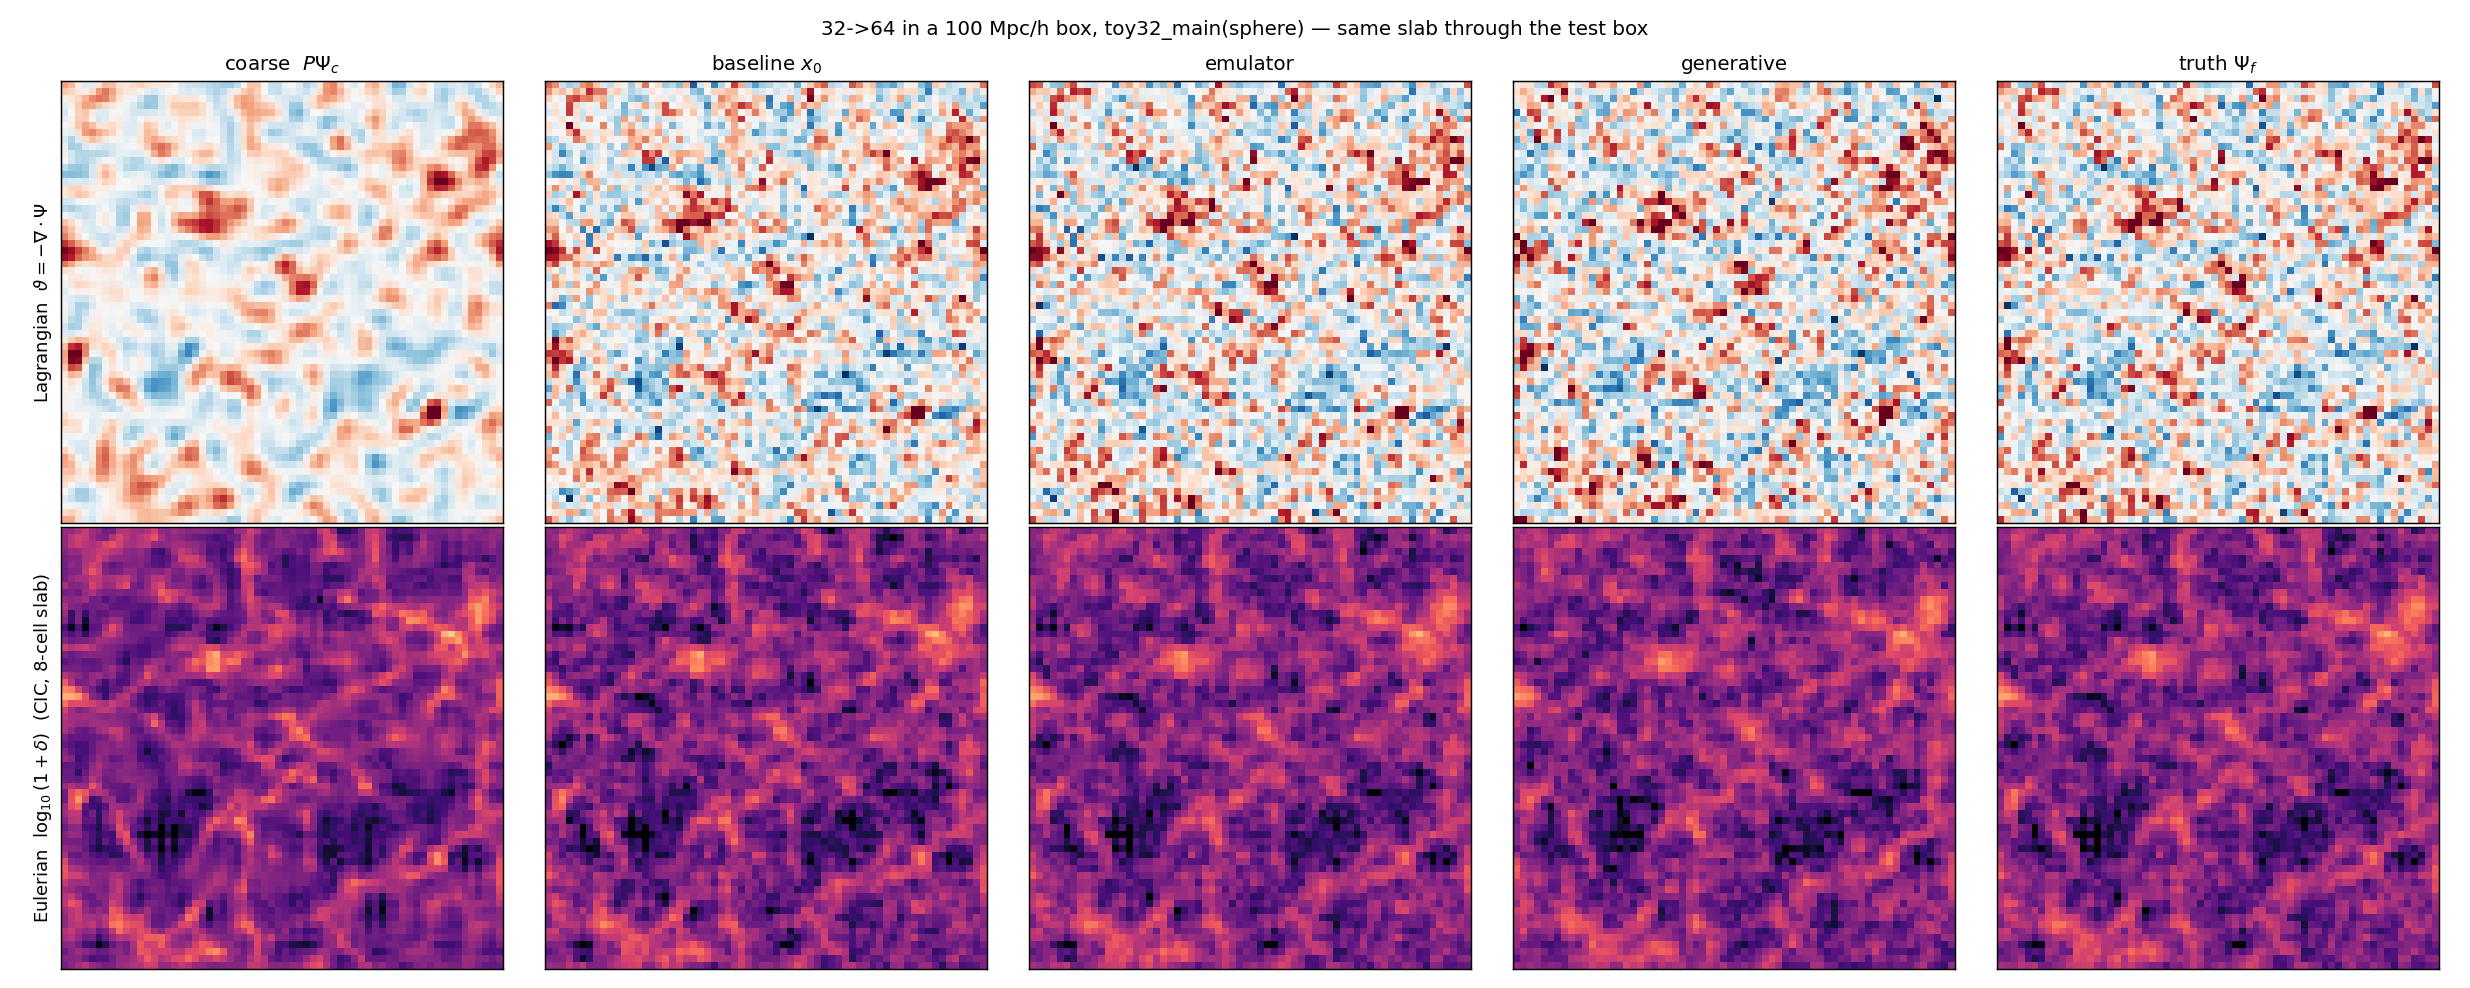
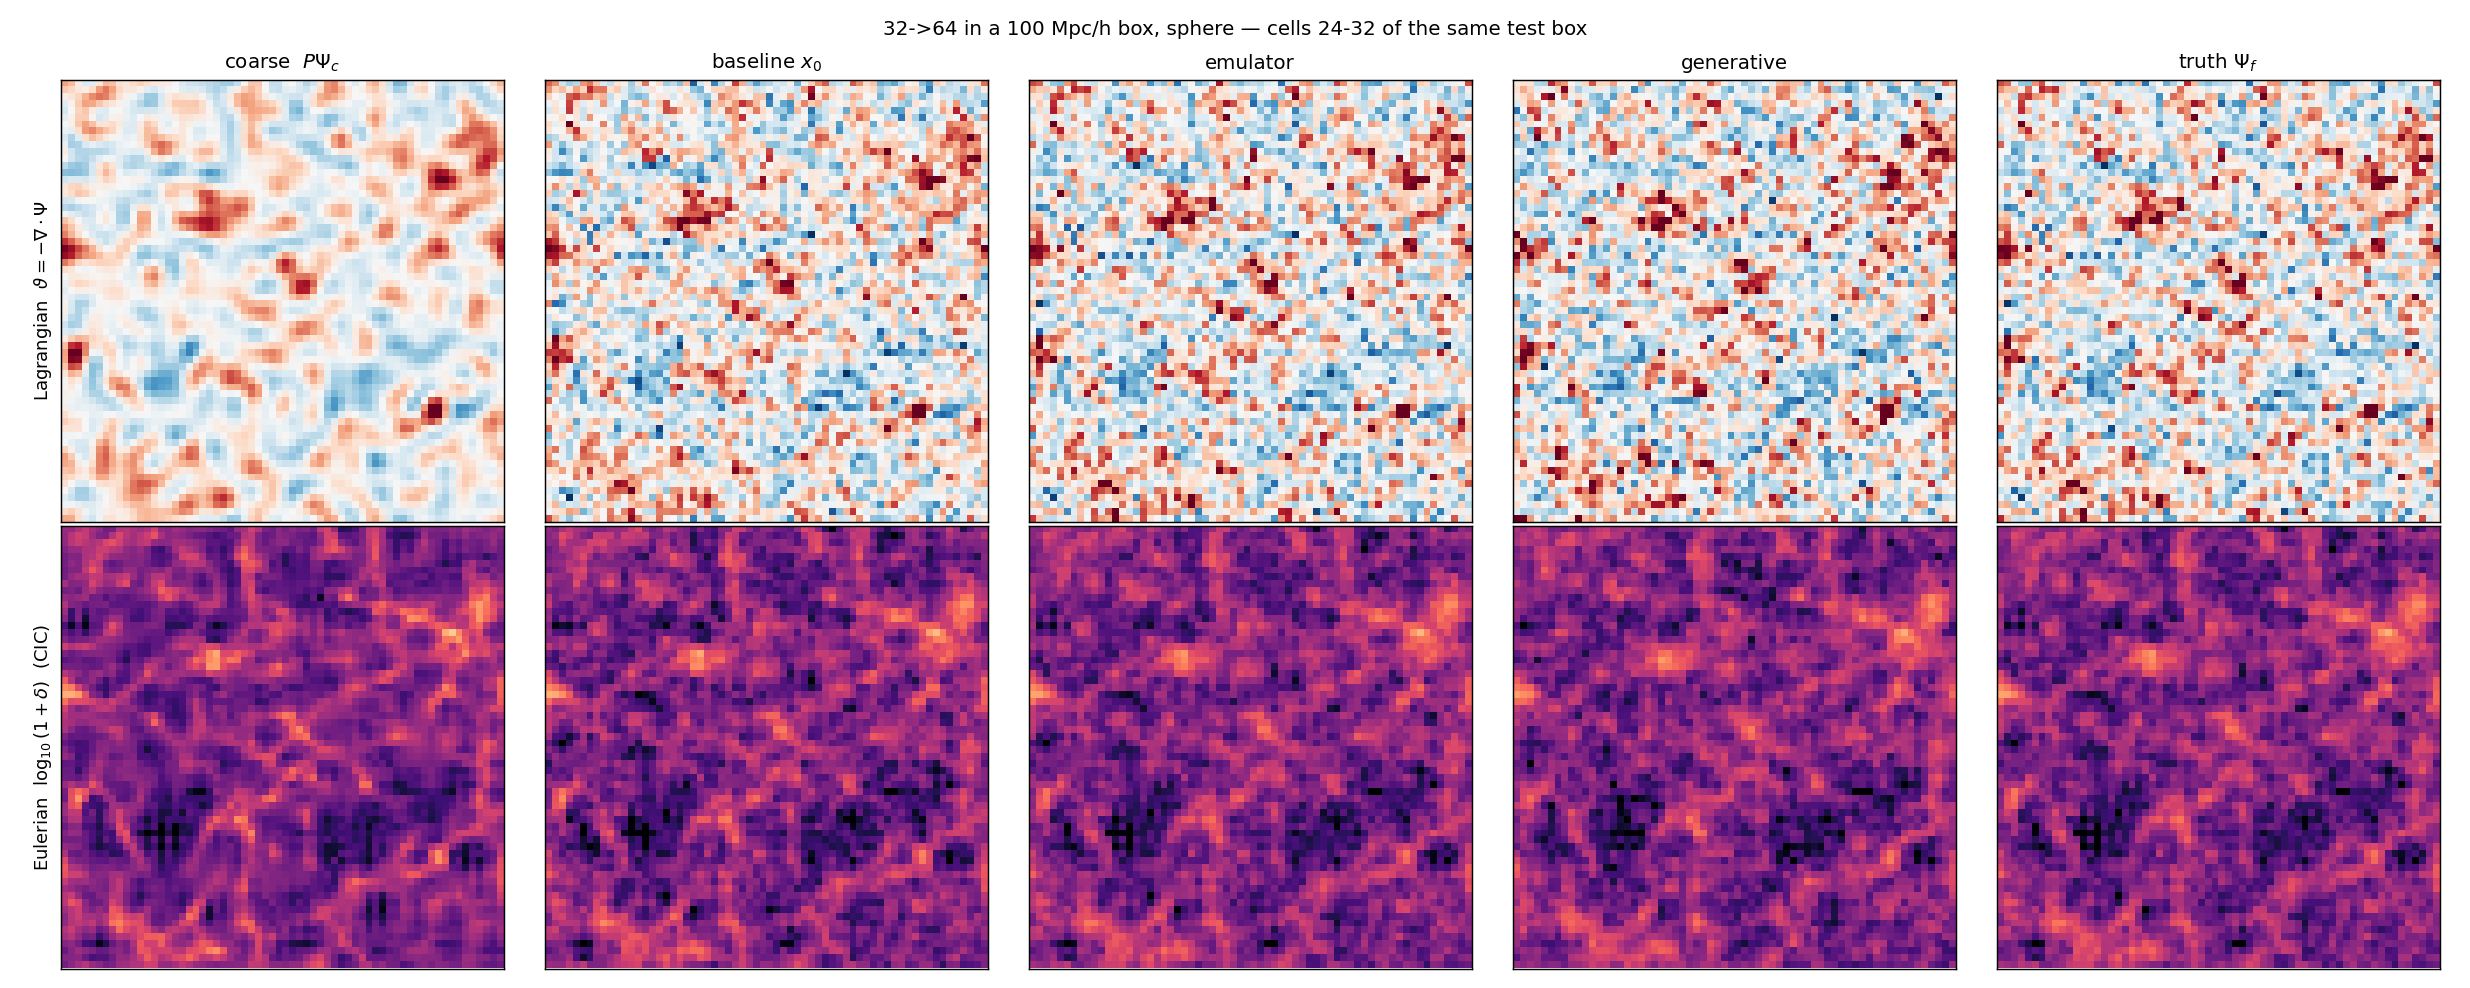
Add runs/make_figures.py; Stage 3b resume + D results in RUNLOG
make_figures.py: full-range spectra of the displacement divergence and
real-space slices (Lagrangian theta and an Eulerian CIC density) for
coarse / baseline / emulator / generative / truth. It only imports the two
main scripts and changes neither; defaults to --device cpu so it can run
while a training job holds the GPU, and the CIC deposit asserts mass
conservation. The Eulerian row is a visualisation only -- quantitative
Eulerian statistics stay on the "deliberately left out" list.

RUNLOG: the D harmonics diagnostic (including the finding that P_harm/P_nl
is exactly constant in rms_delta, contradicting the expectation in
KICKOFF_STAGE3B), the concurrent-MPS-job incident and its single-job
controls, and the Stage 3b resume.

.gitignore: also ignore *.pt anywhere and octave_flow_out/ -- the script's
--out defaults there, so weights could escape the runs/**/*.pt rule.

Claude-Session: https://claude.ai/code/session_01HdzTrrjkUACZWrrCERPT9h

Changed region(s): [[0.0, 0.0, 0.9976, 0.9717], [0.0, 0.3036, 0.0312, 0.3947], [0.0, 0.2126, 0.0312, 0.2429]]

diff --git a/runs/make_figures.py b/runs/make_figures.py
@@ -1,0 +1,176 @@
+#!/usr/bin/env python3
+"""Figures for a trained octave-flow model: full-range spectra and real-space slices.
+
+Complements the per-run `summary.png` that `octave_flow_toy.py` writes (which only shows
+the octave band).  Nothing here is imported by the two main scripts; it only reads a
+checkpoint and re-synthesises the same test box.
+
+  fig_spectra_<tag>.png   P_theta(k) of the displacement divergence theta = -div Psi over
+                          the whole k range for P Psi_c / baseline x0 / emulator /
+                          generative / truth, plus P/P_true and r(k) vs truth.
+  fig_slices_<tag>.png    the same five fields in real space through one slab: the
+                          Lagrangian theta field, and the Eulerian CIC density.
+
+The Eulerian row is a plain CIC deposit of the particles at q + Psi(q); it is only a
+visualisation.  Quantitative Eulerian statistics (the CIC loss, density spectra) are
+deliberately not part of the toy -- see the "deliberately left out" list in README.md.
+
+Runs on the CPU by default so it can be used while a training job has the GPU.
+
+  python runs/make_figures.py --ckpt runs/A_flow_phys/model_ema.pt --window cube --tag cube
+  python runs/make_figures.py --ckpt runs/toy32_main/model_ema.pt --window sphere --tag sphere
+
+Keep --nc/--nf/--rms-delta/--test-seeds/--window the same as the training run, otherwise
+the test box (and the band split) will not be the one the model was trained for.
+"""
+import argparse
+import os
+import sys
+
+import numpy as np
+import torch
+import matplotlib
+matplotlib.use("Agg")
+import matplotlib.pyplot as plt
+
+sys.path.insert(0, os.path.dirname(os.path.dirname(os.path.abspath(__file__))))
+import phase0_octaves as p0        # noqa: E402
+import octave_flow_toy as oft      # noqa: E402
+
+
+def cic(psi, Nf, L, offset):
+    """Eulerian density from Lagrangian displacements: deposit q + Psi(q) with CIC."""
+    h = L / Nf
+    q = (np.arange(Nf) + offset) * h
+    Q = np.stack(np.meshgrid(q, q, q, indexing="ij"))
+    x = ((Q + psi) / h) % Nf
+    i0 = np.floor(x).astype(np.int64)
+    f = x - i0
+    rho = np.zeros((Nf, Nf, Nf), dtype=np.float64)
+    for dx in (0, 1):
+        wx = (1 - f[0]) if dx == 0 else f[0]
+        for dy in (0, 1):
+            wy = (1 - f[1]) if dy == 0 else f[1]
+            for dz in (0, 1):
+                wz = (1 - f[2]) if dz == 0 else f[2]
+                idx = np.unravel_index(((((i0[0] + dx) % Nf) * Nf + ((i0[1] + dy) % Nf)) * Nf
+                                        + ((i0[2] + dz) % Nf)).ravel(), (Nf, Nf, Nf))
+                np.add.at(rho, idx, (wx * wy * wz).ravel())
+    assert abs(rho.sum() - Nf**3) < 1e-3 * Nf**3, "CIC lost mass"
+    return rho
+
+
+def main():
+    ap = argparse.ArgumentParser(description=__doc__,
+                                 formatter_class=argparse.RawDescriptionHelpFormatter)
+    ap.add_argument("--ckpt", required=True, help="path to a model_ema.pt")
+    ap.add_argument("--window", default="cube", choices=["cube", "sphere"])
+    ap.add_argument("--tag", default=None, help="suffix for the file names (default: --window)")
+    ap.add_argument("--nc", type=int, default=32)
+    ap.add_argument("--nf", type=int, default=64)
+    ap.add_argument("--box", type=float, default=100.0)
+    ap.add_argument("--offset", type=float, default=0.5)
+    ap.add_argument("--alpha", type=float, default=1.0)
+    ap.add_argument("--rms-delta", type=float, default=2.0)
+    ap.add_argument("--n-index", type=float, default=-1.5)
+    ap.add_argument("--train-seeds", type=int, nargs="+", default=list(range(8)))
+    ap.add_argument("--test-seeds", type=int, nargs="+", default=[100])
+    ap.add_argument("--nsteps-sample", type=int, default=8)
+    ap.add_argument("--slab", type=int, nargs=2, default=(24, 32), help="slab of fine cells to show")
+    ap.add_argument("--device", default="cpu", help="cpu by default: leaves the GPU to a training job")
+    ap.add_argument("--out", default="runs")
+    args = ap.parse_args()
+    tag = args.tag or args.window
+    Nc, Nf, L, off = args.nc, args.nf, args.box, args.offset
+    dev = torch.device(args.device)
+    torch.manual_seed(0)
+
+    sc = oft.Scaffold(Nc, Nf, L, off, args.alpha, dev, window=args.window)
+    train = oft.make_synthetic(Nc, Nf, L, off, args.train_seeds, args.rms_delta, args.n_index, False)
+    test = oft.make_synthetic(Nc, Nf, L, off, args.test_seeds, args.rms_delta, args.n_index, False)
+    sc.fit_linear_power([it["ic_f"] for it in train])
+    b = oft.Batcher(sc, test, np.random.default_rng(0), augment_on=False)
+    x0, x1, Pc, D = b.make(test, eta="true")
+
+    ck = torch.load(args.ckpt, map_location="cpu")
+    sd = ck["state_dict"] if isinstance(ck, dict) and "state_dict" in ck else ck
+    base = int(ck["base"]) if isinstance(ck, dict) and "base" in ck else 24
+    model = oft.UNet3D(cin=12, cout=3, base=base)
+    model.load_state_dict(sd)
+    model.eval()
+    print(f"loaded {args.ckpt} (base={base}), window={args.window}, device={dev}")
+
+    s = torch.zeros(1, device=dev)
+    xe = oft.sample_flow(model, x0, Pc, D, s, nsteps=args.nsteps_sample)
+    gen = torch.Generator().manual_seed(1)
+    x0g, _, _, _ = b.make(test, eta="sample", gen=gen)
+    xg = oft.sample_flow(model, x0g, Pc, D, s, nsteps=args.nsteps_sample)
+
+    hf = sc.hf
+    C, B0, T = r"coarse  $P\Psi_c$", r"baseline $x_0$", r"truth $\Psi_f$"
+    F = {C: (Pc[0] * hf).cpu().numpy(), B0: (x0[0] * hf).cpu().numpy(),
+         "emulator": (xe[0] * hf).cpu().numpy(), "generative": (xg[0] * hf).cpu().numpy(),
+         T: (x1[0] * hf).cpu().numpy()}
+    order = [C, B0, "emulator", "generative", T]
+    col = {C: "0.55", B0: "C0", "emulator": "C2", "generative": "C3", T: "k"}
+    gf = p0.Grid(Nf, L)
+
+    # ---- spectra ------------------------------------------------------------
+    sp = {lab: p0.spectra(gf, f, divergence=True) for lab, f in F.items()}
+    Pt = sp[T]["Paa"]
+    fig, ax = plt.subplots(1, 3, figsize=(15, 4.2))
+    for lab in order:
+        d = sp[lab]
+        ax[0].loglog(d["k"], d["Paa"], color=col[lab], lw=2 if lab == T else 1.3,
+                     ls="--" if lab == T else "-", label=lab)
+    for lab in order:
+        if lab == T:
+            continue
+        ax[1].semilogx(sp[T]["k"], sp[lab]["Paa"] / np.maximum(Pt, 1e-30), color=col[lab], lw=1.4, label=lab)
+        c = p0.spectra(gf, F[lab], F[T], divergence=True)
+        ax[2].semilogx(c["k"], c["r"], color=col[lab], lw=1.4, label=lab)
+    for a in ax:
+        a.axvline(sc.knyc, color="0.3", ls=":", lw=1)
+        a.set_xlabel(r"$k$  [$h/$Mpc]")
+    ax[0].set_ylabel(r"$P_\vartheta(k)$")
+    ax[0].set_title(r"displacement divergence $\vartheta=-\nabla\cdot\Psi$")
+    ax[1].axhline(1, color="0.6", lw=.8); ax[1].set_ylim(0, 1.35); ax[1].set_title(r"$P/P_{\rm true}$")
+    ax[2].axhline(1, color="0.6", lw=.8); ax[2].set_ylim(-0.05, 1.05); ax[2].set_title(r"$r(k)$ vs truth")
+    for a, loc in zip(ax, ["lower left", "lower left", "lower left"]):
+        a.legend(fontsize=7, loc=loc)
+    ax[0].text(sc.knyc * 1.05, ax[0].get_ylim()[1] * 0.3, r"$k_{\rm Ny,c}$", fontsize=8, color="0.3")
+    fig.suptitle(f"{Nc}->{Nf}, {tag}, {os.path.dirname(args.ckpt)}, "
+                 f"rms_delta={args.rms_delta}, test seed {args.test_seeds}", fontsize=10)
+    fig.tight_layout()
+    p1 = os.path.join(args.out, f"fig_spectra_{tag}.png")
+    fig.savefig(p1, dpi=140); print("wrote", p1)
+
+    # ---- real space ---------------------------------------------------------
+    def theta(f):
+        Ff = p0.rfftn(f.astype(np.float32))
+        th = -1j * (gf.kx * Ff[0] + gf.ky * Ff[1] + gf.kz * Ff[2])
+        return p0.irfftn(th[None], s=(Nf,) * 3)[0]
+
+    sl = slice(*args.slab)
+    TH = {lab: theta(F[lab]) for lab in order}
+    RH = {lab: cic(F[lab], Nf, L, off) for lab in order}
+    vt = np.percentile(np.abs(TH[T][sl].mean(0)), 99)
+    fig, ax = plt.subplots(2, 5, figsize=(19, 7.6))
+    for j, lab in enumerate(order):
+        ax[0, j].imshow(TH[lab][sl].mean(0), cmap="RdBu_r", vmin=-vt, vmax=vt)
+        ax[0, j].set_title(lab, fontsize=11)
+        d = RH[lab][sl].sum(0) / RH[lab][sl].sum(0).mean()
+        ax[1, j].imshow(np.log10(np.maximum(d, 1e-2)), cmap="magma", vmin=-0.8, vmax=1.1)
+        for a in (ax[0, j], ax[1, j]):
+            a.set_xticks([]); a.set_yticks([])
+    ax[0, 0].set_ylabel(r"Lagrangian  $\vartheta=-\nabla\cdot\Psi$", fontsize=10)
+    ax[1, 0].set_ylabel(r"Eulerian  $\log_{10}(1+\delta)$  (CIC)", fontsize=10)
+    fig.suptitle(f"{Nc}->{Nf} in a {L:g} Mpc/h box, {tag} — cells {args.slab[0]}-{args.slab[1]} "
+                 f"of the same test box", fontsize=11)
+    fig.tight_layout()
+    p2 = os.path.join(args.out, f"fig_slices_{tag}.png")
+    fig.savefig(p2, dpi=130); print("wrote", p2)
+
+
+if __name__ == "__main__":
+    main()

diff --git a/runs/RUNLOG.md b/runs/RUNLOG.md
@@ -163,3 +163,23 @@ Estimated 4 h 45 min for the six trainings (1.9 s/step, 1500 steps each) plus ~3
 - KICKOFF_STAGE3B.md experiment D expectation corrected: in pure 2LPT `P_harm/P_nl` is a
   constant (both terms second order); the trend with nonlinearity is a real-data question.
 - To push: create the GitHub repo, then `git remote add origin <url> && git push -u origin main`.
+
+## 2026-09-08 19:23 — Stage 3b resumed after the reboot
+
+`PYTHONUNBUFFERED=1 nohup runs/stage3b_driver.sh >> runs/stage3b.log 2>&1 &`, one job on the
+GPU at a time. A1 (cube, flow, physical) is healthy: loss 3.49e-2 (1) -> 1.52e-2 (75) ->
+8.46e-3 (150) at 1.90 s/step, i.e. on top of the old sphere run's 1.50e-2 / 8.33e-3 —
+further confirmation that the earlier divergence was GPU contention, not the cube window.
+
+Added `runs/make_figures.py` (new file, imports the two main scripts, changes neither):
+full-range spectra of the displacement divergence and real-space slices (Lagrangian theta
+and an Eulerian CIC density) for coarse / baseline / emulator / generative / truth.
+Runs on the CPU by default so it can be used while a training job holds the GPU.
+The CIC deposit self-checks mass conservation (262144.0 = 64^3, <delta> = -1.1e-16).
+
+- `python runs/make_figures.py --ckpt runs/toy32_main/model_ema.pt --window sphere --tag sphere`
+  -> `runs/fig_spectra_sphere.png`, `runs/fig_slices_sphere.png`.
+  P_theta of the prolonged coarse field drops ~11 decades at k_Ny,c = 1.005 h/Mpc; the
+  baseline's octave-band power falls from 1.0 to 0.78 of truth; emulator and generative both
+  sit on 1.0; r(k) is ~1 below k_Ny,c for all, then stays ~1 for the emulator and drops to 0
+  for the generative sample. To be repeated with the cube model (A1) for REPORT_3b.
